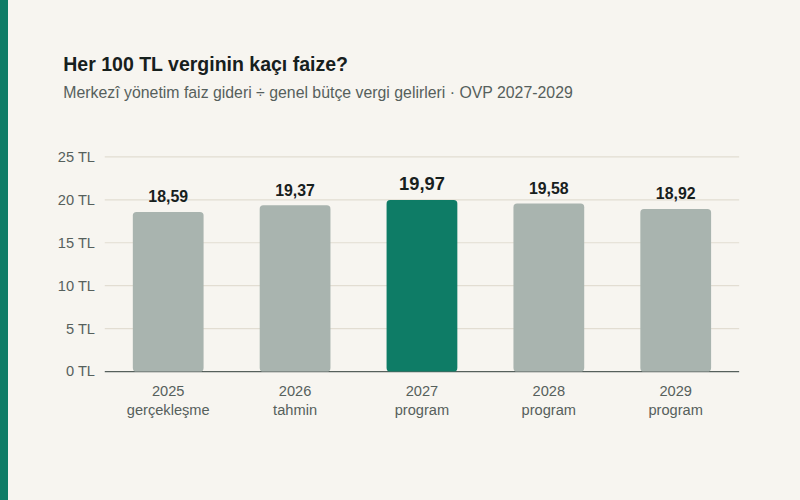
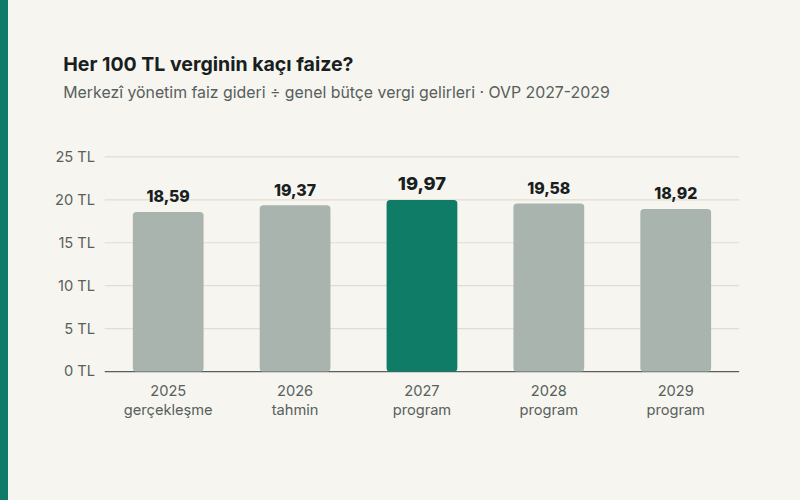
Publish the budget article now and say it will be updated with the bill
The figures are the medium-term programme's; a visible note and the
standfirst say the article is recalculated against the 2027 budget
bill, due in parliament by 17 October 2026, and that the change will
carry a dated Güncelleme line. Cover PNGs re-rendered with metric-
compatible fonts (Gelasio for Georgia, Inter for Segoe UI).

diff --git a/makaleler/butce-2027-faiz-vergi/index.html b/makaleler/butce-2027-faiz-vergi/index.html
@@ -143,7 +143,7 @@
       <div class="wrap prose">
         <p class="ed-kicker">Vergi · Bütçe</p>
         <h1 id="hero-title">2027 bütçesinde faiz: her 100 TL verginin kaçı faize gidiyor?</h1>
-        <p class="ed-standfirst">Orta Vadeli Program'a göre 19,97 TL. Merkezî yönetimin 2027 faiz gideri 3.975,0 milyar TL, genel bütçe vergi gelirleri 19.906,0 milyar TL. Oran 2025'te 18,59, 2026'da 19,37'ydi; programın kapsadığı beş yılın en yüksek değeri 2027'de. Bütçe teklifi Meclis'e sunulunca yazı teklifin rakamlarıyla güncellenecek.</p>
+        <p class="ed-standfirst">Orta Vadeli Program'a göre 19,97 TL. Merkezî yönetimin 2027 faiz gideri 3.975,0 milyar TL, genel bütçe vergi gelirleri 19.906,0 milyar TL. Oran 2025'te 18,59, 2026'da 19,37'ydi; programın kapsadığı beş yılın en yüksek değeri 2027'de. Yazı, en geç 17 Ekim 2026'da Meclis'e sunulacak bütçe teklifinin rakamlarıyla güncellenecek.</p>
         <p class="ed-meta">
           <span class="ed-author"><img src="../../images/koray-oner-portre-360.webp" width="24" height="24" alt="" loading="lazy" decoding="async"><a href="../../hakkimda/">Koray Öner</a></span>
           <span class="ed-sep" aria-hidden="true">·</span>
@@ -161,6 +161,10 @@
             <figcaption>Oran 2027'de zirve yapıp programın son iki yılında geriliyor. 2026 gerçekleşme tahmini, 2027–2029 program.</figcaption>
           </figure>
           <!-- LEAD-GORSEL:BITIS -->
+      <div class="legal-note" role="note" aria-label="Güncelleme notu">
+        <h3>Bu yazı 17 Ekim 2026'da güncellenecek</h3>
+        <p>Buradaki rakamlar Eylül'de yayımlanan Orta Vadeli Program'ın hedefleridir. 2027 Merkezî Yönetim Bütçe Kanunu Teklifi en geç 17 Ekim 2026'da Meclis'e sunulacak; teklifin faiz ödeneği ve vergi tahmini gelince tablo, oranlar ve grafik teklifle yeniden hesaplanacak ve OVP ile karşılaştırılacak. Güncelleme bu sayfada tarihli bir "Güncelleme:" satırıyla gösterilecek.</p>
+      </div>
       <div class="legal-note verdict">
         <h2>Kısa cevap</h2>
         <p>Orta Vadeli Program (2027-2029) Tablo 1.6'ya göre 2027'de merkezî yönetimin faiz gideri 3.975,0 milyar TL, genel bütçe vergi gelirleri 19.906,0 milyar TL. Her 100 TL vergiye karşılık 19,97 TL faiz ödeniyor.</p>

diff --git a/makaleler/butce-2027-faiz-vergi/sayi-testi.js b/makaleler/butce-2027-faiz-vergi/sayi-testi.js
@@ -79,5 +79,7 @@ t.gecsin("teklif karşılaştırması", "faiz ödeneği OVP'deki " + bir(c.faiz)
 if (!Bu.teklifVar()) {
   t.gecmesin("teklif rakamı yok", "Teklife göre");
   t.dogru("gecerlilik bildirimi teklif tarihine bağlı", /name="gecerlilik" content="2026-10-17 \|/.test(t.html));
+  t.gecsin("okura güncelleme notu", "Bu yazı 17 Ekim 2026'da güncellenecek");
+  t.gecsin("standfirst güncelleme", "en geç 17 Ekim 2026'da Meclis'e sunulacak bütçe teklifinin rakamlarıyla güncellenecek");
 }
 t.bitir(Bu.teklifVar() ? "Teklif girildi." : "Teklif bekleniyor; rakamlar OVP'den.");
